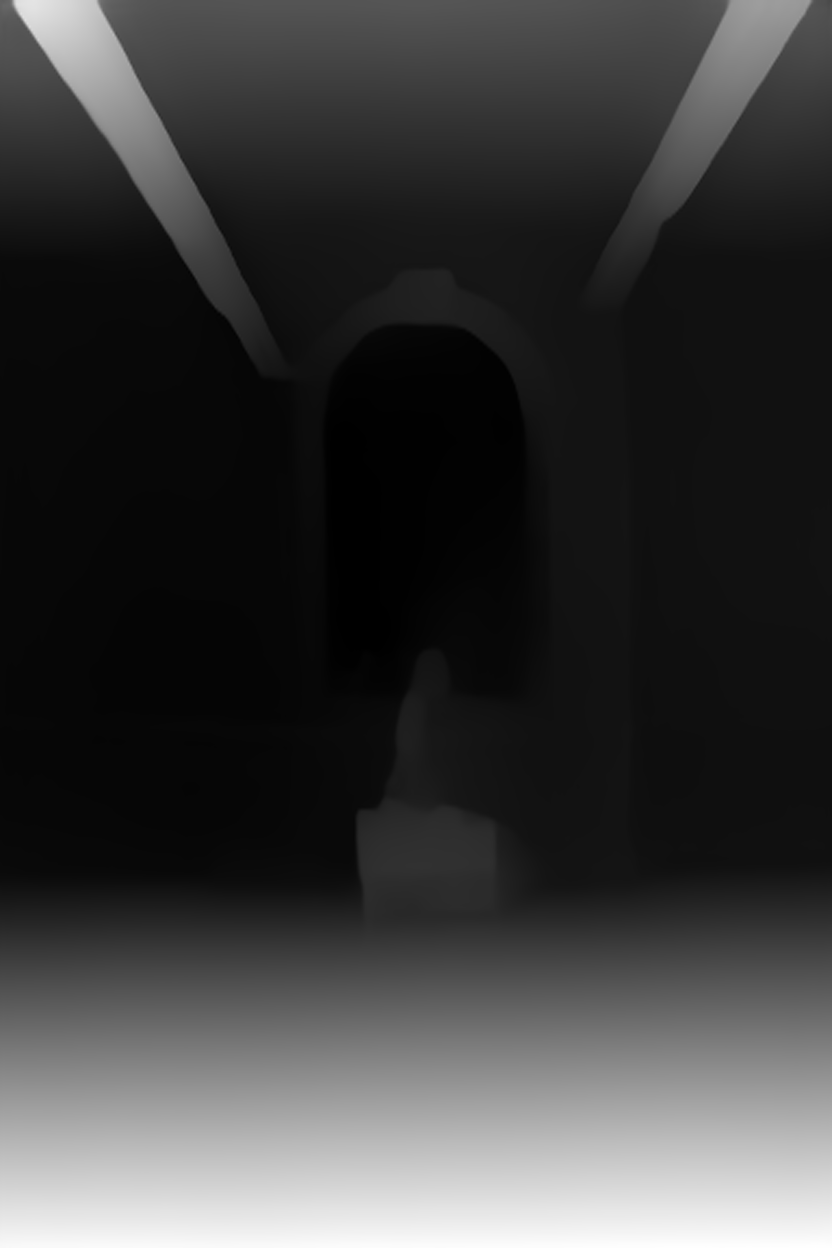
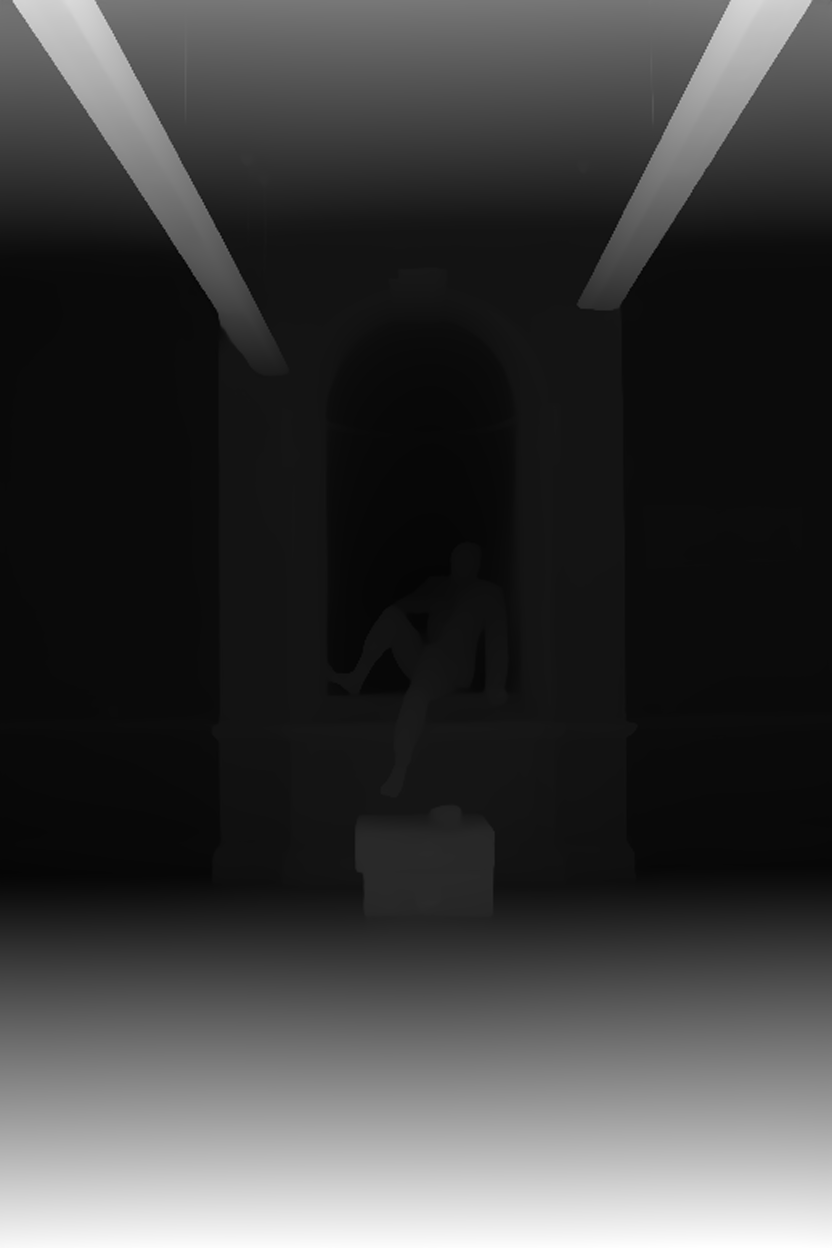
Update model

Changed region(s): [[0.125, 0.0, 1.0, 0.25], [0.2188, 0.1562, 0.3125, 0.2812]]

diff --git a/generate_depth.py b/generate_depth.py
@@ -1,19 +1,31 @@
 import torch
-from transformers import pipeline
+from transformers import AutoImageProcessor, AutoModelForDepthEstimation
 from PIL import Image
-import os
+import numpy as np
 
-# Initialize the depth estimation pipeline
-depth_estimator = pipeline(task="depth-estimation", model="Intel/dpt-large")
+model_name = "depth-anything/Depth-Anything-V2-Large-hf"
+image_processor = AutoImageProcessor.from_pretrained(model_name)
+model = AutoModelForDepthEstimation.from_pretrained(model_name)
 
-# Load the image
 image_path = "image_expanded.png"
 image = Image.open(image_path)
 
-# Estimate depth
-result = depth_estimator(image)
-depth_map = result["depth"]
+inputs = image_processor(images=image, return_tensors="pt")
 
-# Save the depth map
+with torch.no_grad():
+    outputs = model(**inputs)
+    predicted_depth = outputs.predicted_depth
+
+prediction = torch.nn.functional.interpolate(
+    predicted_depth.unsqueeze(1),
+    size=image.size[::-1],
+    mode="bicubic",
+    align_corners=False,
+)
+
+depth_array = prediction.squeeze().cpu().numpy()
+depth_array = (depth_array - depth_array.min()) / (depth_array.max() - depth_array.min())
+depth_map = Image.fromarray((depth_array * 255).astype(np.uint8))
+
 depth_map.save("depth_huggingface.png")
 print("Depth map saved to depth_huggingface.png")
